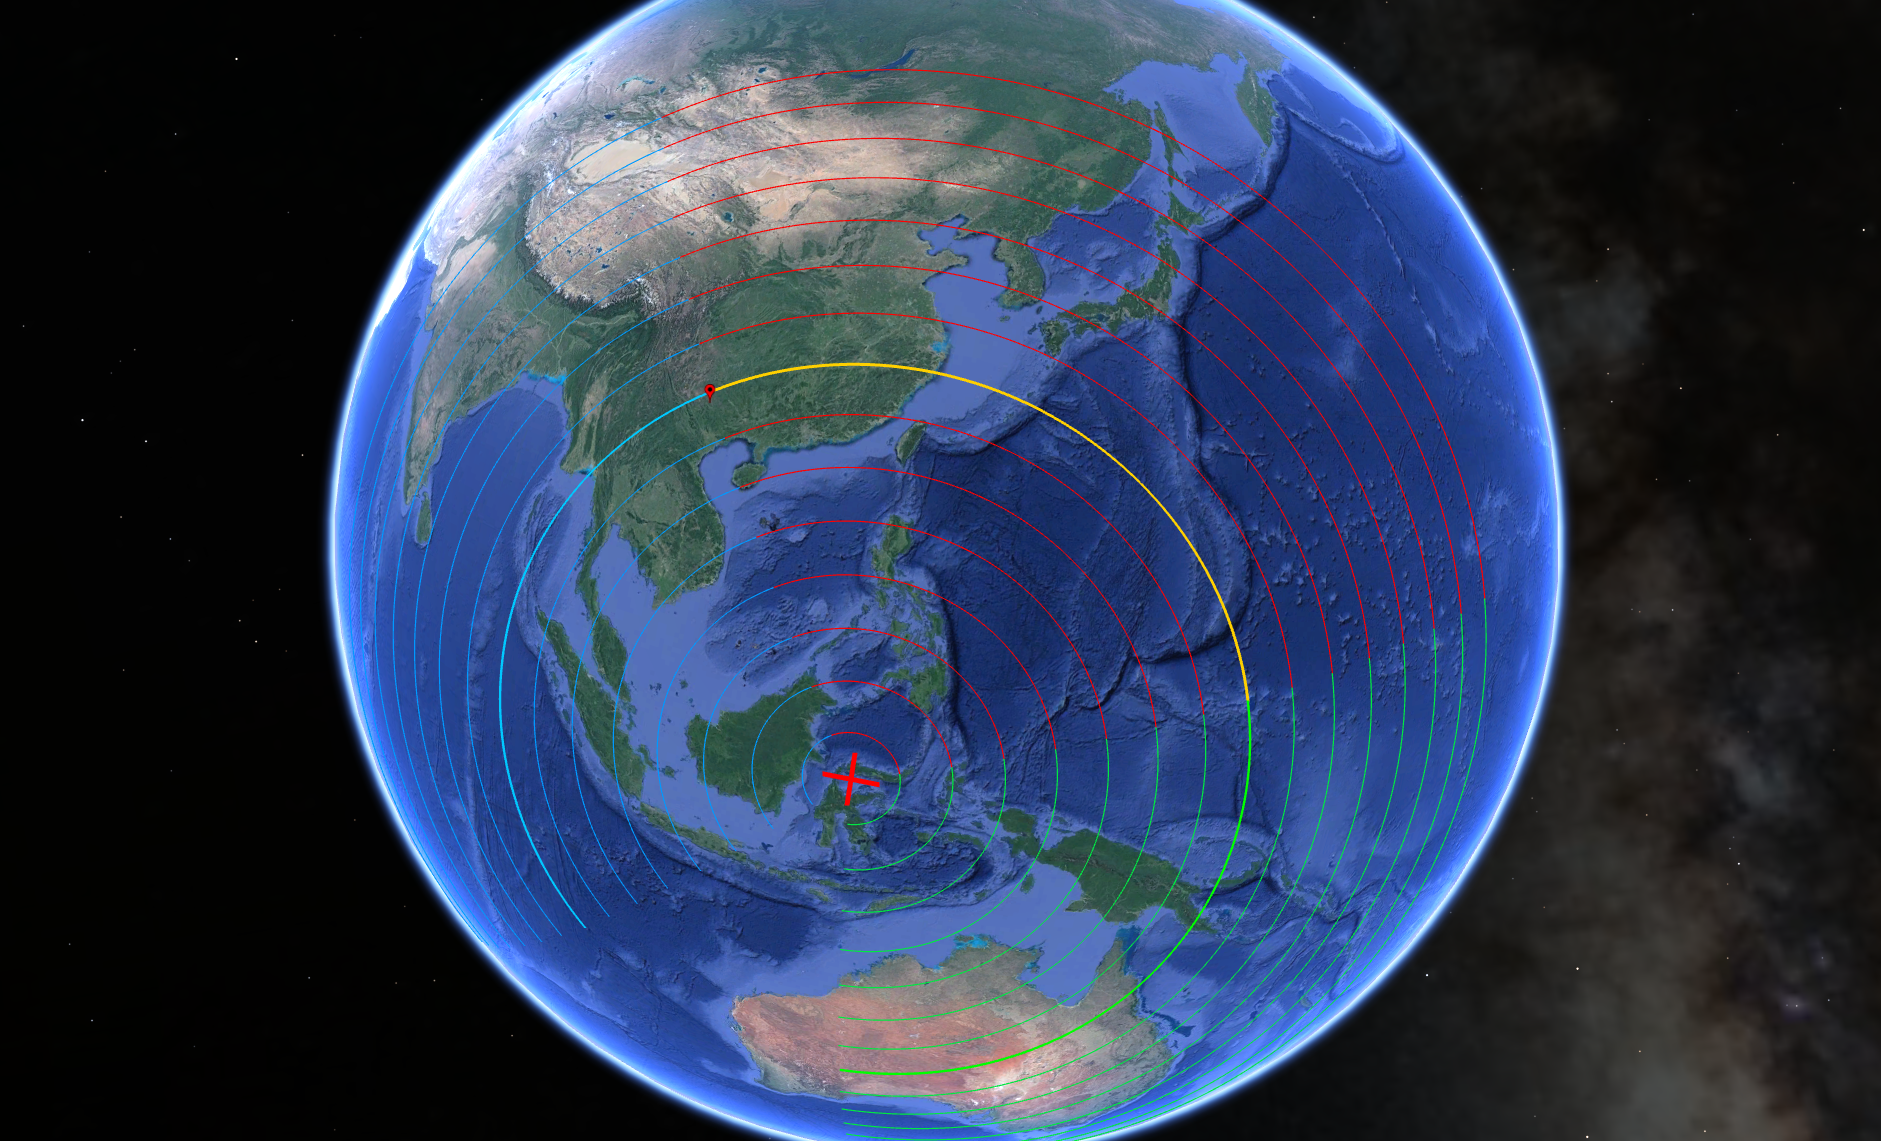
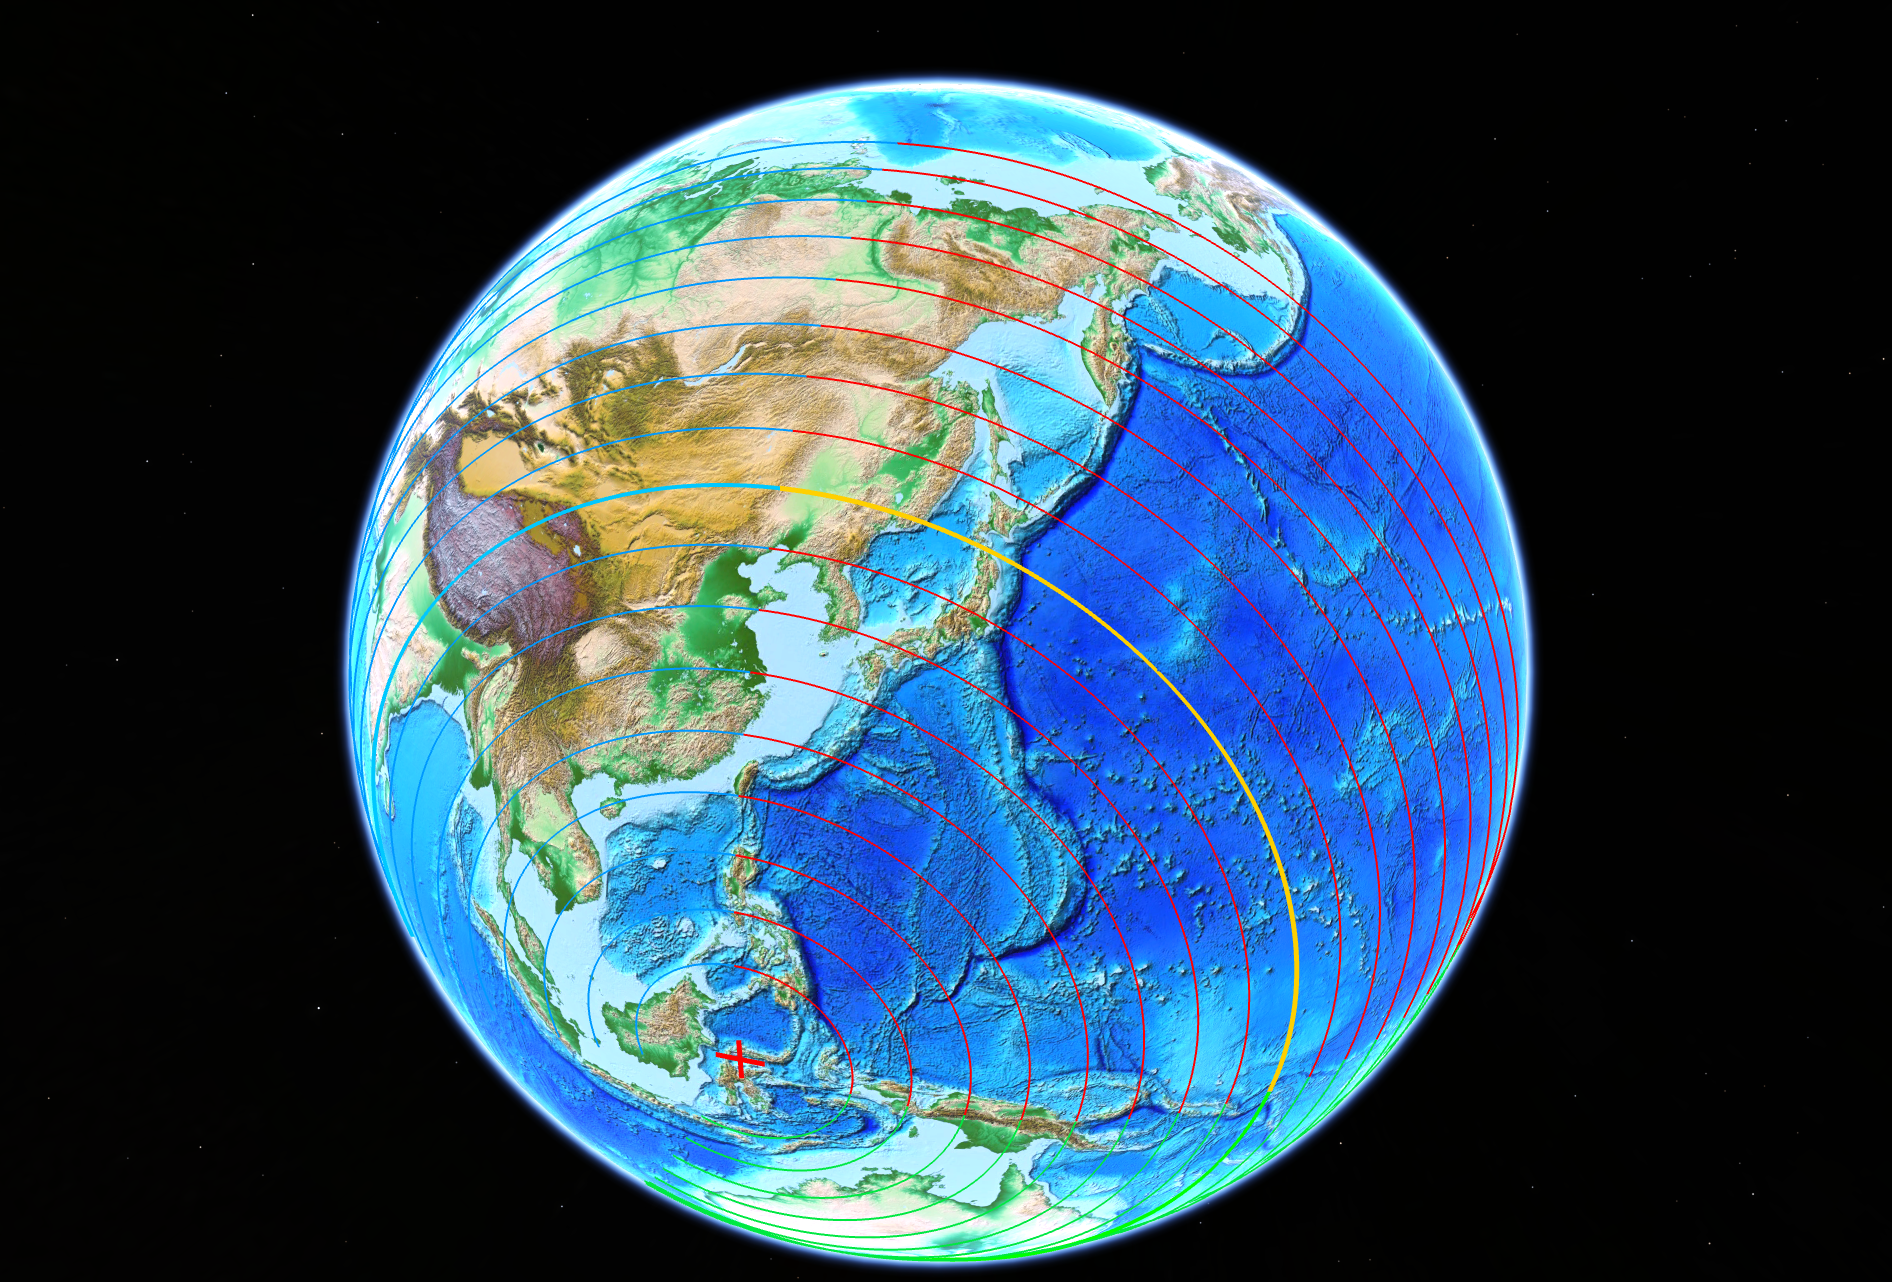
update asia ocean chokepoints

diff --git a/2-LOCATION-ANALYSIS/asia/README.md b/2-LOCATION-ANALYSIS/asia/README.md
@@ -1,12 +1,10 @@
 # Asia
 
-Home of the east ECDO pivot at Sulawesi, Indonesia. It also has one of the largest areas of highest elevation, in west China north of India.
+A massive continent that is home to the east ECDO pivot at Sulawesi, Indonesia. It also has one of the largest areas of highest elevation, in west China north of India. Rushing into the Pacific in S1 -> S2. it will undoubtedly experience a massive water surge.
 
 ![profile](img/profile.png "asia profile")
 
 The location in the red marker will rotate to the other end of the yellow arc during S1 -> S2.
-
-![as](img/asia-elevation.png "asia elevation")
 
 https://github.com/user-attachments/assets/490f770f-1b53-44cc-95e4-2f1b290e80a0
 
@@ -16,17 +14,11 @@ See [here](https://github.com/sovrynn/ecdo/tree/master/6-LITERATURE-MEDIA/nobula
 
 ## Oceanic Displacement
 
-The oceanic displacement for Asia, particularly east Asia, begins with its shallow tranches of ocean near the coastline.
+The oceanic displacement for Asia, particularly east Asia, begins with its land and shallow tranches of ocean bordering the deep Pacific Ocean. Here's how I see the macro ocean chokepoints and flow:
 
-![ocean](img/ocean.png "asia ocean")
+![](img/chokepoints.png)
 
-The Pacific Ocean to the right of Japan is anywhere from 5-6 km deep. In the Phillipine plate, it's 4.5-5.5 km deep. But in the Yellow Sea between China and Korea, it's only 100m deep, and to the right of Korea, 1-3 km deep.
-
-As the shallow coastline sea shelves rush into the Pacific, the sea level in East Asia is temporarily going to surge before the water settles down.
-
-For example, you can see that there is a huge underwater chokepoint to the right of Japan where the Pacific plate subducts into the Eurasian plate. You can expect that there will be large inflows of water at the two indents of that chokepoint.
-
-In terms of coastline chokepoints, you can see Asia has two concave bays - the Yellow Sea, and the east coast of Korea. Additionally, there is a large concave bay northwards in Russia.
+The Pacific Ocean, ranging from 4-6km deep, is going to get displaced onto a coastline ranging from -2000m to 0m in height. Depending on the rotation speed and the chokepoint topography, you could see very high water surges.
 
 ## Tectonic Plates
 
@@ -35,5 +27,7 @@ Asia has one of the most fractured tectonic plate regions in the world.
 ![plates](img/plates.png "tectonic plate")
 
 ## Citations
+
+Authors: [Sovrynn](https://sovrynn.github.io)
 
 Visualization: [Nobulart](https://nobulart.com)

diff --git a/5-TOOLS-DEV/google-earth/README.md b/5-TOOLS-DEV/google-earth/README.md
@@ -2,8 +2,12 @@
 
 ## Google Earth Pro
 
-KMZ files are a file format used by Google Earth and other GIS (Geographic Information System) applications to store geographic data. They are a compressed version of KML (Keyhole Markup Language) files, which are XML files used to represent geographic data in a way that can be easily displayed on mapping and visualization tools.
+Loads both KML and KMZ files. Very easy to download these files and boot them up into Google Earth Pro.
+
+In order to get underwater elevation paths you need to turn "Terrain" off before you draw the path.
 
 ## Google Earth Engine
 
 DEM datasets: https://developers.google.com/earth-engine/datasets/tags/dem
+
+Apparently you can export KMZ/KML files from Google Earth Engine where you have access to a ton of datasets which is super nice.

diff --git a/5-TOOLS-DEV/datasets/README.md b/5-TOOLS-DEV/datasets/README.md
@@ -38,6 +38,12 @@ There is an index of SRTM elevation data [here](https://srtm.kurviger.de) at srt
 
 Google Earth Engine, integrated with Google Cloud, has the data AFAIK.
 
+## DEM
+
+- USGS Earth explorer: https://earthexplorer.usgs.gov/
+- Open Topography: https://portal.opentopography.org/raster?opentopoID=OTSRTM.082015.4326.1
+- Google earth engine: https://earthengine.google.com/platform
+
 # TODO
 
 Lidar DEM data, very detailed

diff --git a/5-TOOLS-DEV/README.md b/5-TOOLS-DEV/README.md
@@ -5,7 +5,7 @@ This folder is for tools, data, and development resources that help investigate 
 ## Contents
 
 - `dev`: Scripts for generating rotational path KML files and 2D visualizations.
-- `google-earth`: Google Earth Pro addons.
+- `google-earth`: Google Earth Pro KMZ files.
 - `datasets`: Links to various datasets.
 
 ## Mapping
